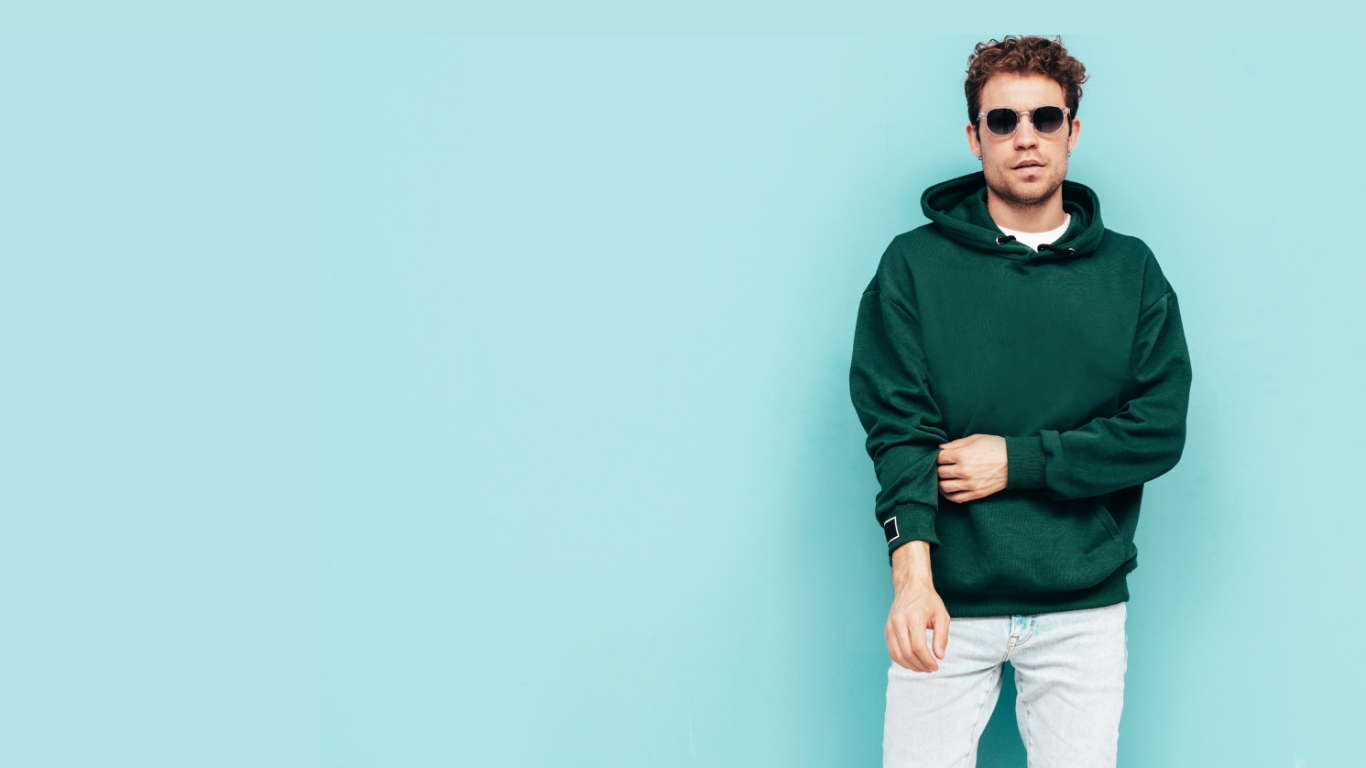
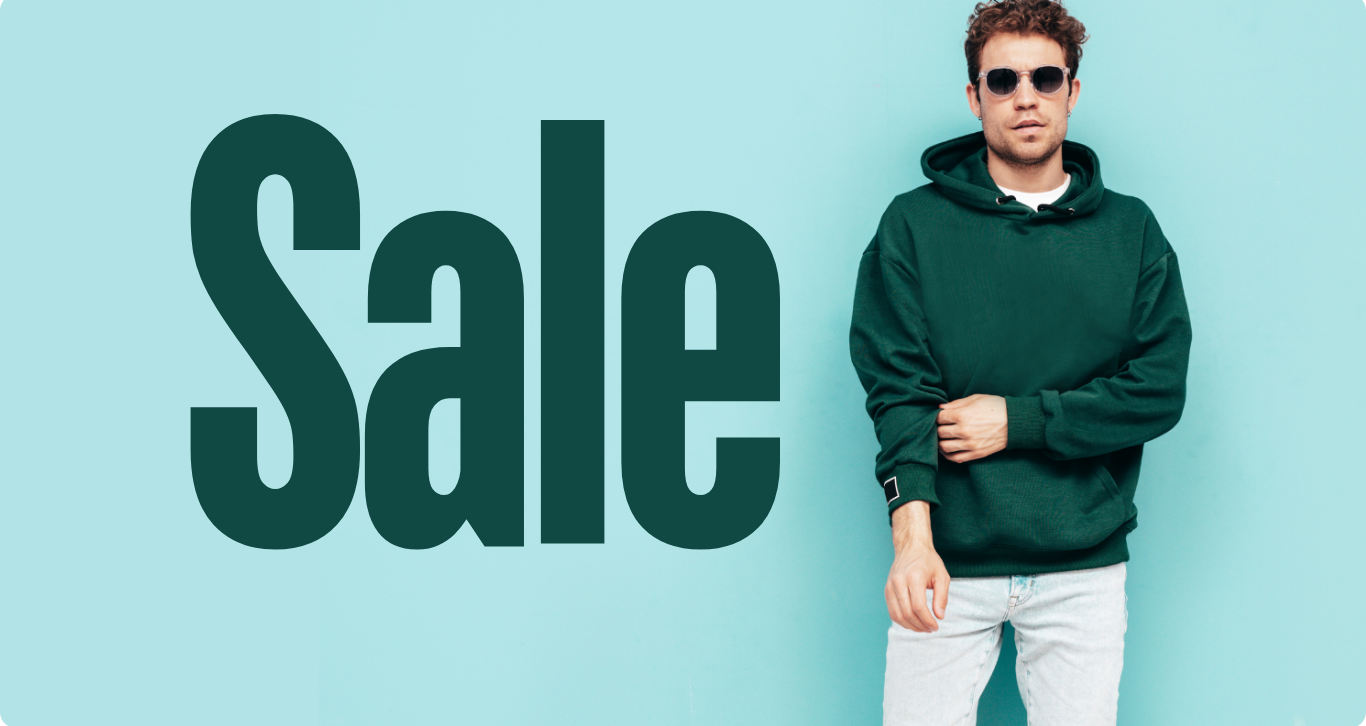
chnage tab title and slider image

Changed region(s): [[0.123, 0.1515, 0.5842, 0.7576], [0.6149, 0.0, 0.8917, 0.8788]]

diff --git a/src/components/Home/pages/CarouselSection.jsx b/src/components/Home/pages/CarouselSection.jsx
@@ -13,12 +13,12 @@ const CarouselSection = () => {
       alt: "wings-home-2",
     },
     {
-      url: "/assets/page-1/WINGS-Home-image-1.png",
-      alt: "wings-home-1",
+      url: "/assets/page-1/WINGS-Home-image-3.png",
+      alt: "wings-home-3",
     },
     {
-      url: "/assets/page-1/WINGS-Home-image-2.png",
-      alt: "wings-home-2",
+      url: "/assets/page-1/WINGS-Home-image-4.png",
+      alt: "wings-home-4",
     },
   ];
 
@@ -69,7 +69,7 @@ const CarouselSection = () => {
   //   };
 
   useEffect(() => {
-    const interval = setInterval(nextSlide, 3000);
+    const interval = setInterval(nextSlide, 30055550);
 
     return () => {
       clearInterval(interval);
@@ -81,7 +81,7 @@ const CarouselSection = () => {
       <div className="flex flex-col items-center justify-center w-full bg-yellow-300">
         <div className="relative w-full ">
           {/* Carousel wrapper */}
-          <div className="relative h-[33rem] overflow-hidden rounded-lg">
+          <div className="relative w-full h-[35rem] overflow-hidden rounded-lg">
             {/* Carousel items */}
             {carouselItems.map((item, index) => (
               <div
@@ -98,6 +98,11 @@ const CarouselSection = () => {
                   className="block w-full h-full object-cover"
                   alt={item.alt}
                 />
+                {/* <img
+                  src={item.url}
+                  className="block w-full h-full object-cover"
+                  alt={item.alt}
+                /> */}
               </div>
             ))}
           </div>

diff --git a/src/App.jsx b/src/App.jsx
@@ -11,7 +11,7 @@ const TitleUpdater = () => {
       path === "/"
         ? "Home"
         : path.slice(1).charAt(0).toUpperCase() + path.slice(2);
-    document.title = `Velodate - ${title}`;
+    document.title = `WINGS - ${title}`;
   }, [location]);
 
   return null;
